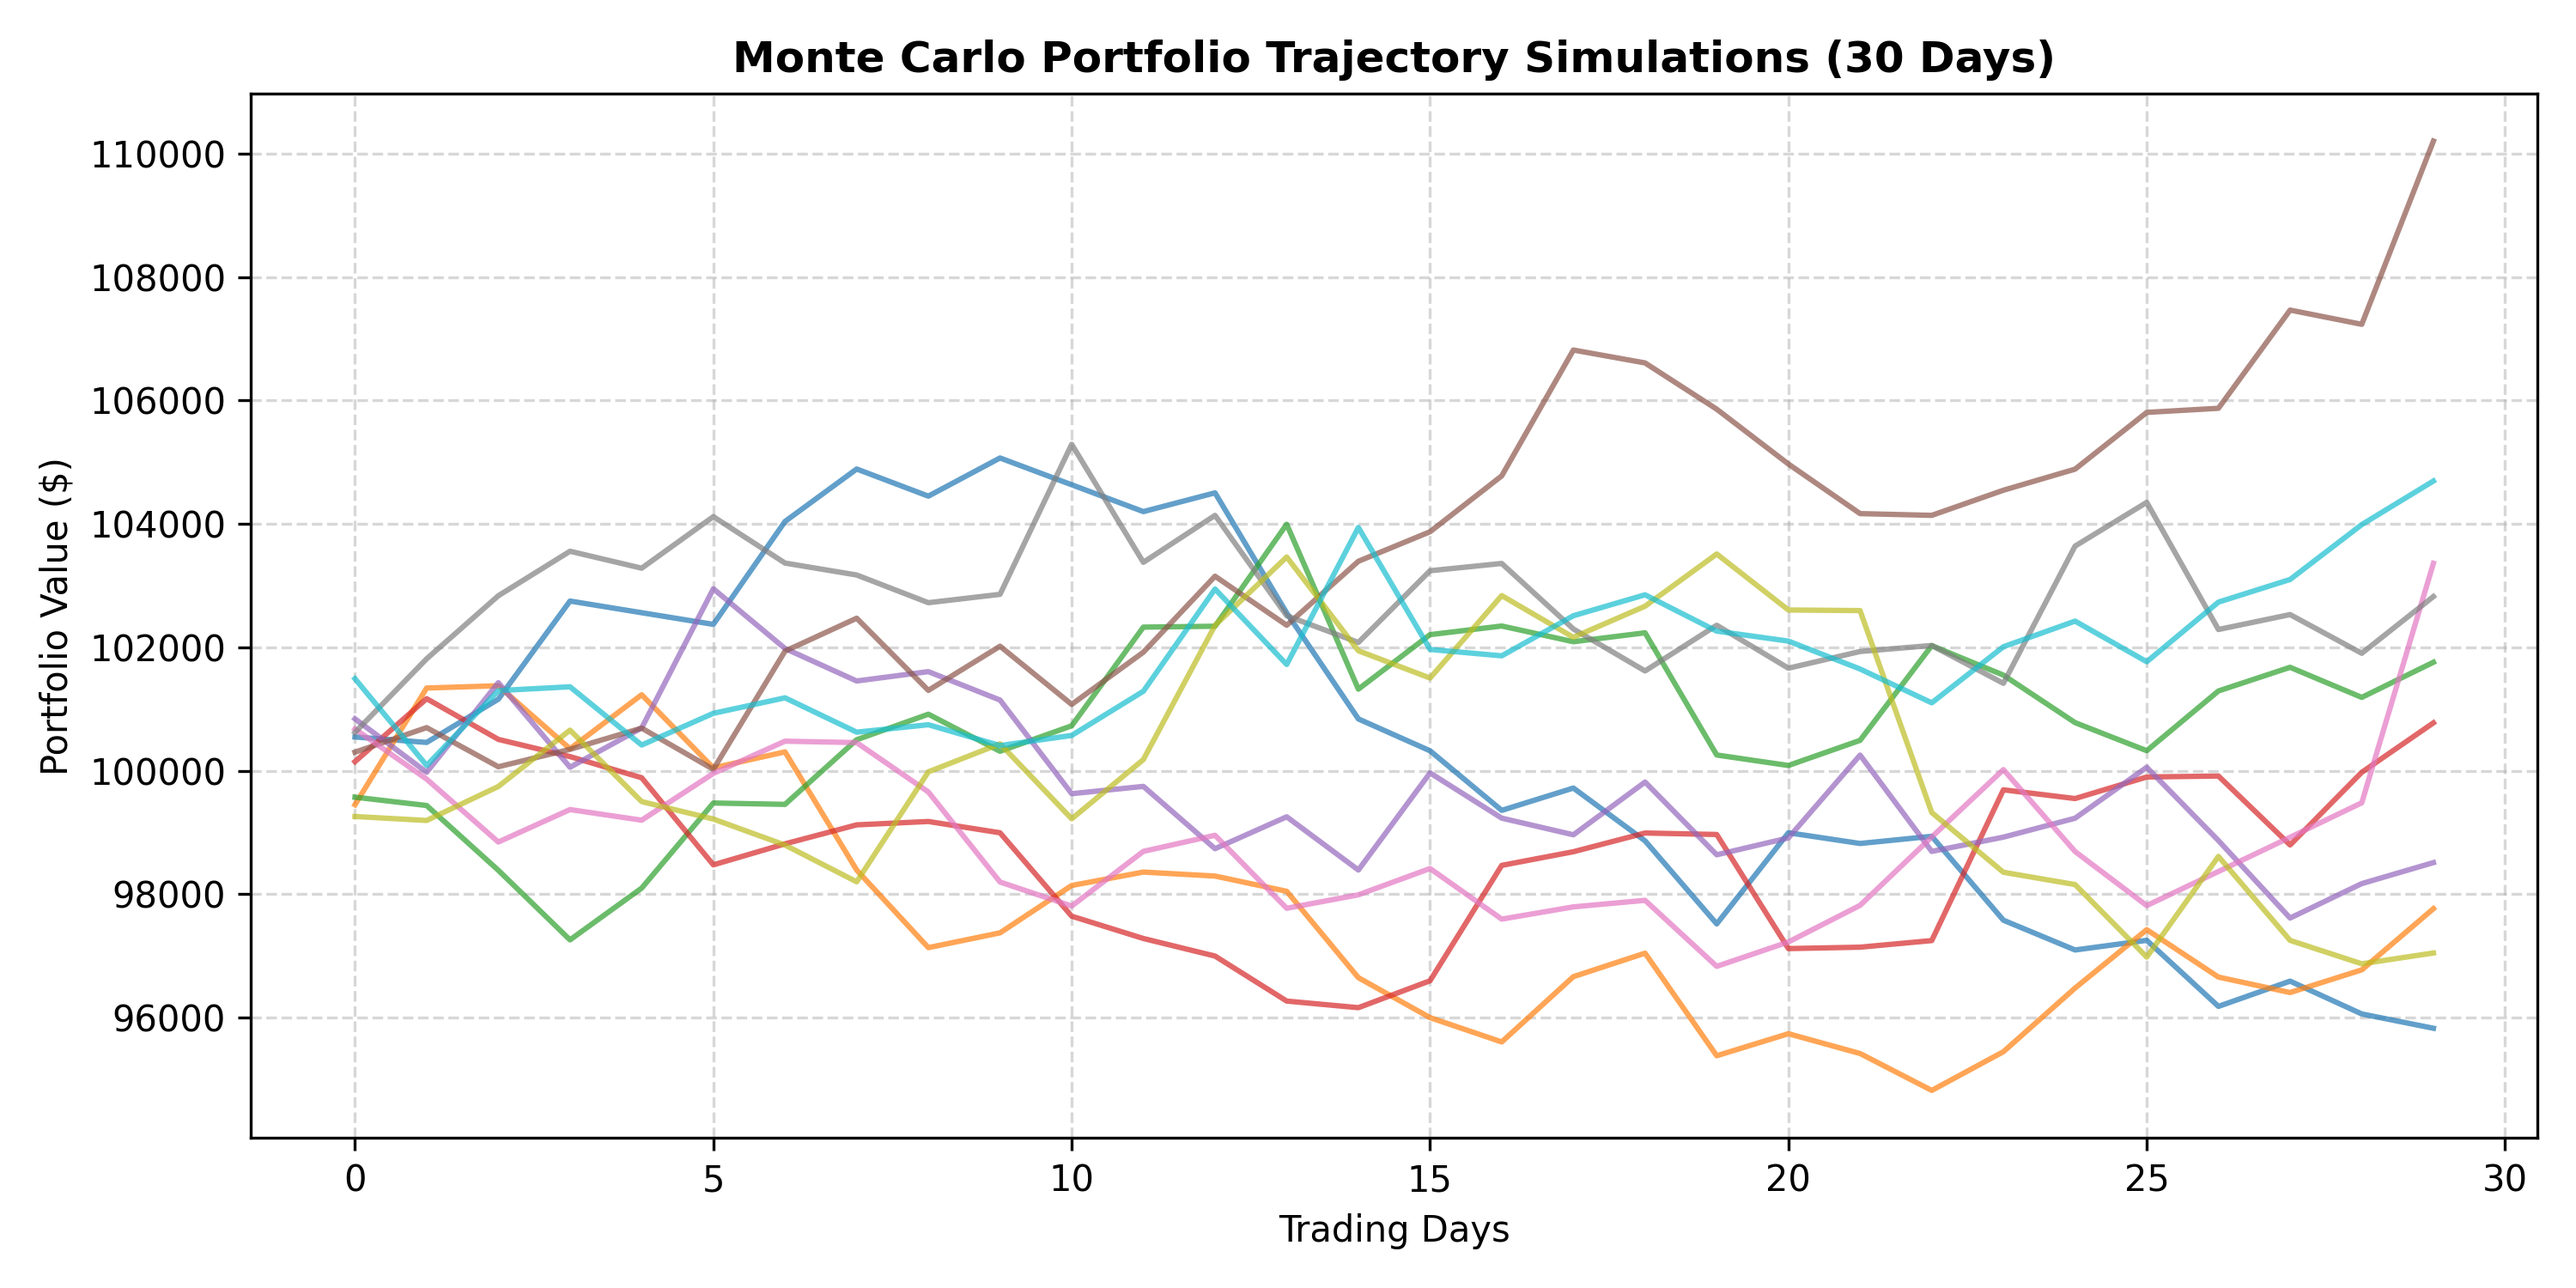
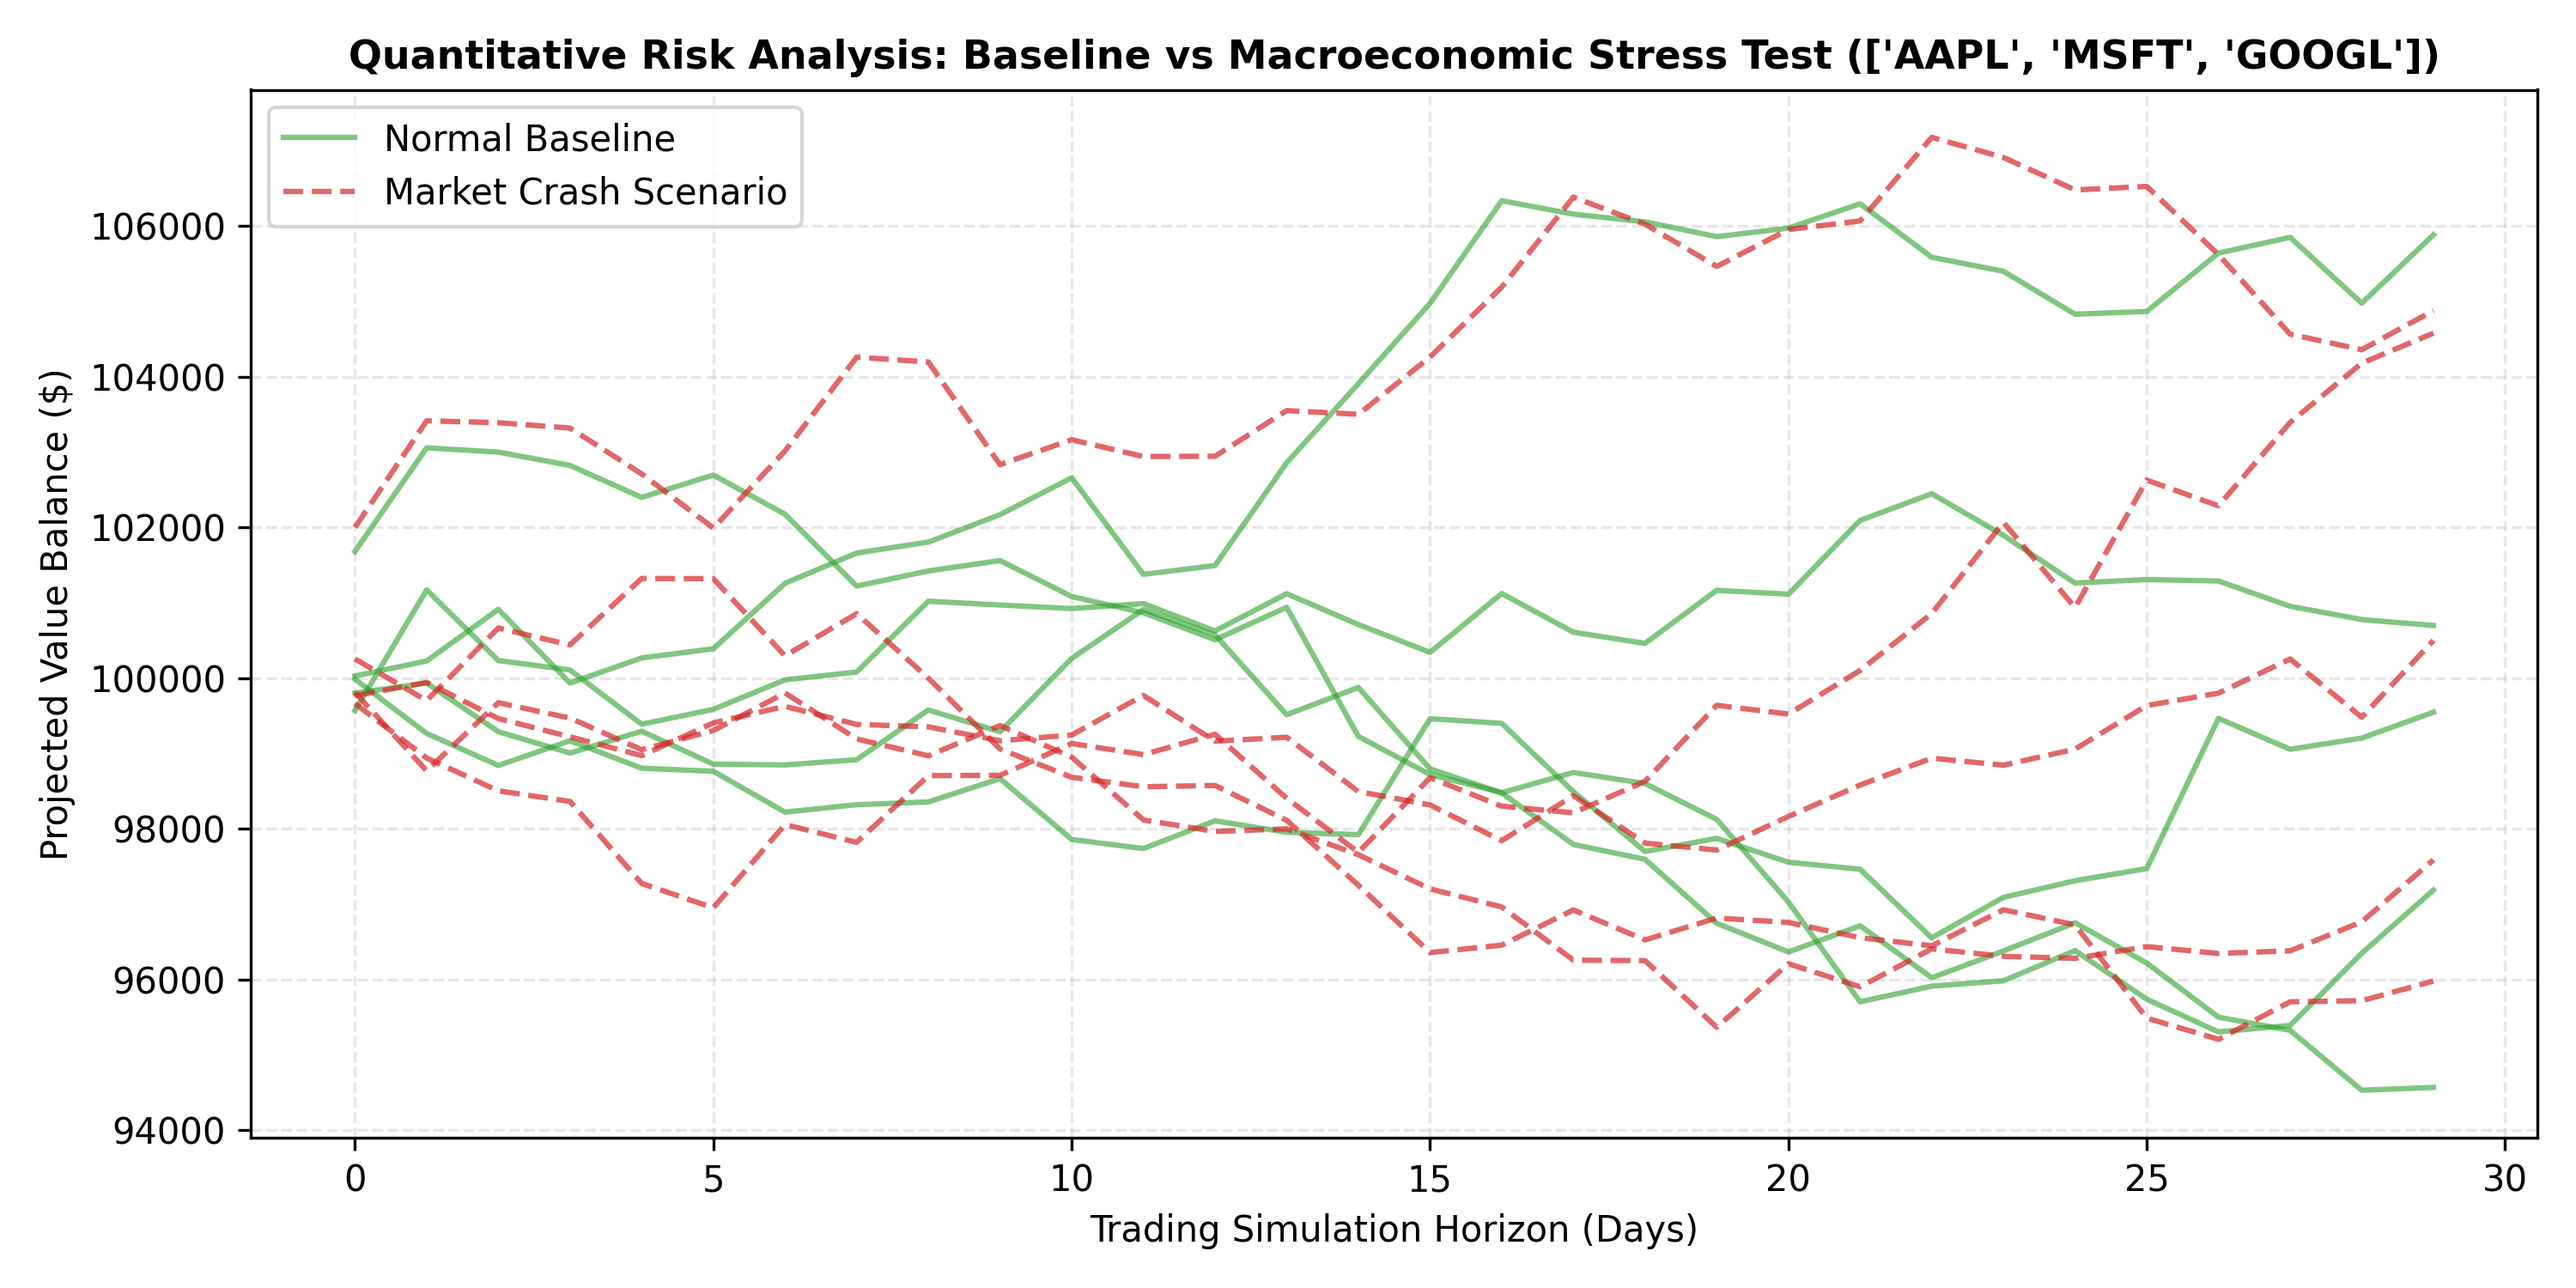
Feature: Add automated stress testing framework comparing baseline vs crash volatility distributions

diff --git a/generate_chart.py b/generate_chart.py
@@ -1,29 +1,49 @@
 import os
 import numpy as np
 import matplotlib.pyplot as plt
+from src.analyzer import PortfolioRiskAnalyzer, fetch_historical_returns
 
-# Generate mock data: 10 random paths over 30 days starting at 100,000
-np.random.seed(42)
-days = 30
-simulations = 10
-paths = np.zeros((simulations, days))
-for i in range(simulations):
-    shocks = np.random.normal(0.0005, 0.01, days)
-    paths[i] = 100000 * np.cumprod(1 + shocks)
+# Setup our tech stock portfolio distribution profile
+tickers = ["AAPL", "MSFT", "GOOGL"]
+weights = [0.40, 0.40, 0.20]
+initial_investment = 100000
+sim_days = 30
 
-# Create the plot
+# 1. Gather live 2026 market returns data stream
+returns_matrix = fetch_historical_returns(tickers, start_date="2026-01-01")
+
+# 2. Instantiate core math analyzer engine 
+analyzer = PortfolioRiskAnalyzer(weights=weights, initial_investment=initial_investment)
+
+# 3. Simulate Normal Market Trajectories
+normal_paths = analyzer.run_monte_carlo_simulation(returns_matrix, days=sim_days, simulations=5)
+
+# 4. Generate Crash Scenario Return Streams & Simulate
+stressed_matrix = analyzer.apply_market_stress_test(returns_matrix, shock_multiplier=3.0)
+crash_paths = analyzer.run_monte_carlo_simulation(stressed_matrix, days=sim_days, simulations=5)
+
+# 5. Build the Dual-Comparison Visual Graph Canvas
 plt.figure(figsize=(10, 5))
-for i in range(simulations):
-    plt.plot(paths[i], alpha=0.7, linewidth=1.5)
 
-plt.title("Monte Carlo Portfolio Trajectory Simulations (30 Days)", fontsize=12, fontweight='bold')
-plt.xlabel("Trading Days", fontsize=10)
-plt.ylabel("Portfolio Value ($)", fontsize=10)
-plt.grid(True, linestyle="--", alpha=0.5)
+# Plot normal market trajectories in solid green lines
+for i in range(len(normal_paths)):
+    lbl = "Normal Baseline" if i == 0 else ""
+    plt.plot(normal_paths[i], color="#2ca02c", alpha=0.6, linewidth=1.5, label=lbl)
+
+# Plot crash scenario trajectories in dashed red lines
+for i in range(len(crash_paths)):
+    lbl = "Market Crash Scenario" if i == 0 else ""
+    plt.plot(crash_paths[i], color="#d62728", linestyle="--", alpha=0.7, linewidth=1.5, label=lbl)
+
+plt.title(f"Quantitative Risk Analysis: Baseline vs Macroeconomic Stress Test ({tickers})", fontsize=11, fontweight='bold')
+plt.xlabel("Trading Simulation Horizon (Days)", fontsize=10)
+plt.ylabel("Projected Value Balance ($)", fontsize=10)
+plt.grid(True, linestyle="--", alpha=0.3)
+plt.legend(loc="upper left")
 plt.tight_layout()
 
-# Ensure reports folder exists and save the image
+# Save image asset file
 os.makedirs("reports", exist_ok=True)
 plt.savefig("reports/simulation_chart.png", dpi=300)
-print("📈 Chart successfully generated and saved to reports/simulation_chart.png")
+print("📈 Dual-scenario simulation comparison graph generated successfully!")
 

diff --git a/src/analyzer.py b/src/analyzer.py
@@ -1,4 +1,5 @@
 import numpy as np
+import yfinance as yf
 
 class PortfolioRiskAnalyzer:
     def __init__(self, weights, initial_investment):
@@ -10,7 +11,6 @@ class PortfolioRiskAnalyzer:
     def run_monte_carlo_simulation(self, returns_matrix, days, simulations=1000):
         """Simulates price trajectories based on asset covariance."""
         mean_returns = returns_matrix.mean(axis=0)
-        cov_matrix = np.corrcoef(returns_matrix.T) # Simplify to correlation matrix
         
         # Simulating random portfolio drift parameters
         portfolio_simulations = np.zeros((simulations, days))
@@ -28,4 +28,28 @@ class PortfolioRiskAnalyzer:
         percentile = (1 - confidence_level) * 100
         var_limit = np.percentile(losses, 100 - percentile)
         return round(max(0.0, var_limit), 2)
+
+    def apply_market_stress_test(self, returns_matrix, shock_multiplier=2.5):
+        """Artificially scales asset volatility matrix coefficients to simulate a crash."""
+        print(f"⚠ Injecting systemic risk shocks... Volatility scaled by {shock_multiplier}x")
+        stressed_matrix = returns_matrix * shock_multiplier
+        return stressed_matrix
+
+
+# --- STANDALONE API FUNCTION (Must be aligned all the way to the left) ---
+def fetch_historical_returns(tickers, start_date="2025-01-01"):
+    """
+    Downloads real historical closing prices for specified ticker assets
+    and calculates their daily percentage returns matrix.
+    """
+    print(f"🌐 Fetching live market asset tracks from Yahoo Finance for: {tickers}...")
+    raw_data = yf.download(tickers, start=start_date)
+    
+    if 'Close' in raw_data.columns:
+        close_prices = raw_data['Close']
+    else:
+        close_prices = raw_data
+        
+    returns_matrix = close_prices.pct_change().dropna()
+    return returns_matrix.to_numpy()
 

diff --git a/README.md b/README.md
@@ -14,6 +14,9 @@ graph LR
 The analyzer projects asset distributions under simulated pricing shock constraints. The model maps potential portfolio value degradation to determine loss limits (VaR (95%)):
 ![Portfolio Simulation Chart](reports/simulation_chart.png)
 
+## ⚠ Volatility Stress Testing & Scenario Profiling
+To protect asset positions against heavy tail-risk anomalies, the core engine introduces artificial macroeconomic shocks (scaling historical return variance matrices by a 3.0x multiplier factor). This simulates systemic contraction events—such as the 2008 Liquidity Crisis or the 2020 Volatility Spikes—enabling quantitative analysts to calculate max drawdown expectations under high-stress constraints.
+
 ## 🛠 Financial Computing Stack
 - **Language Environment:** Python 3.11
 - **Computational Math Library:** NumPy Array Projections
